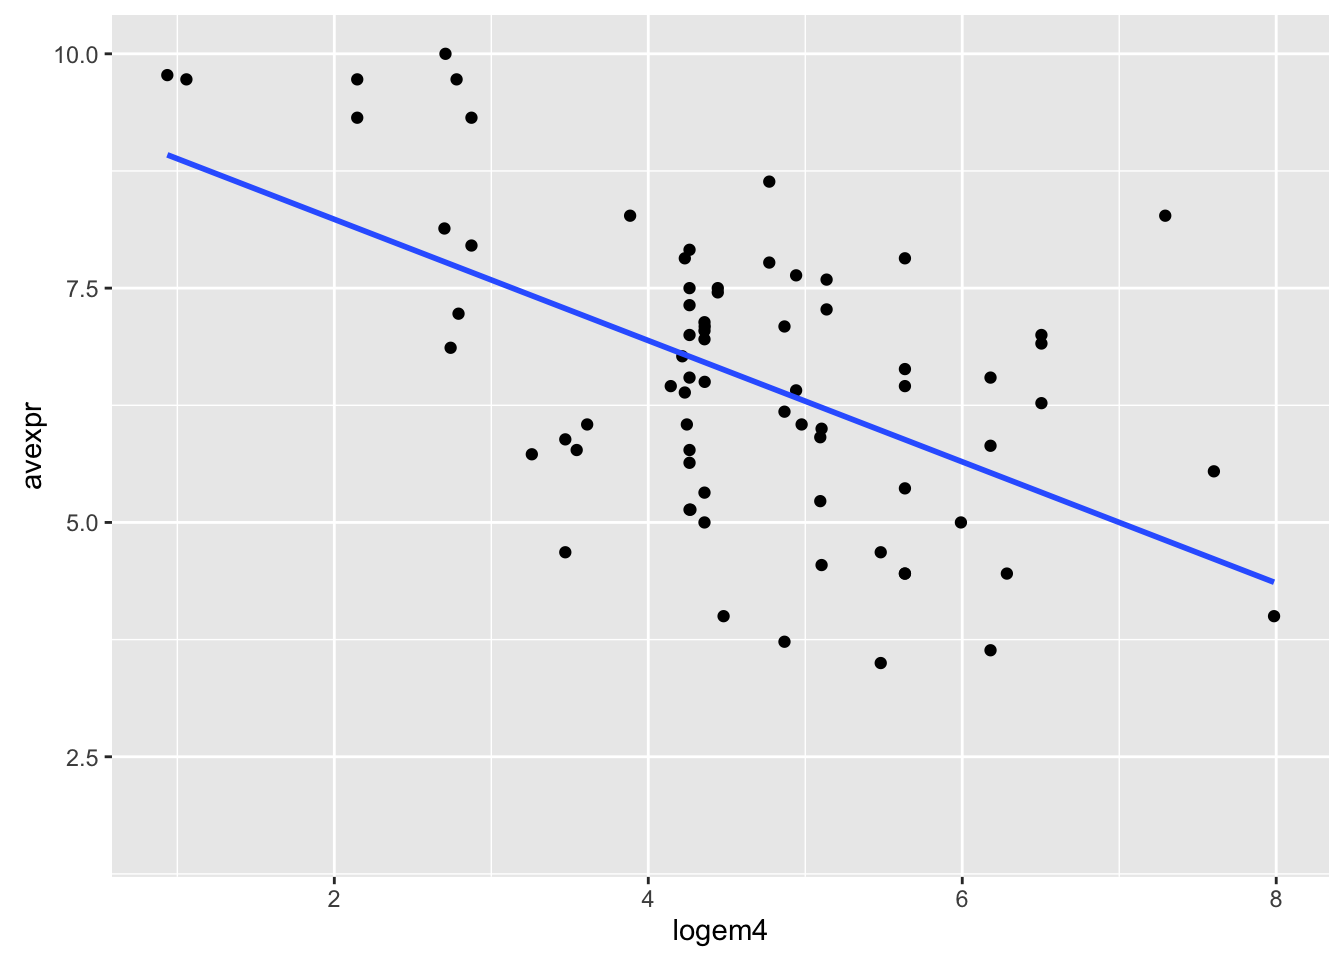
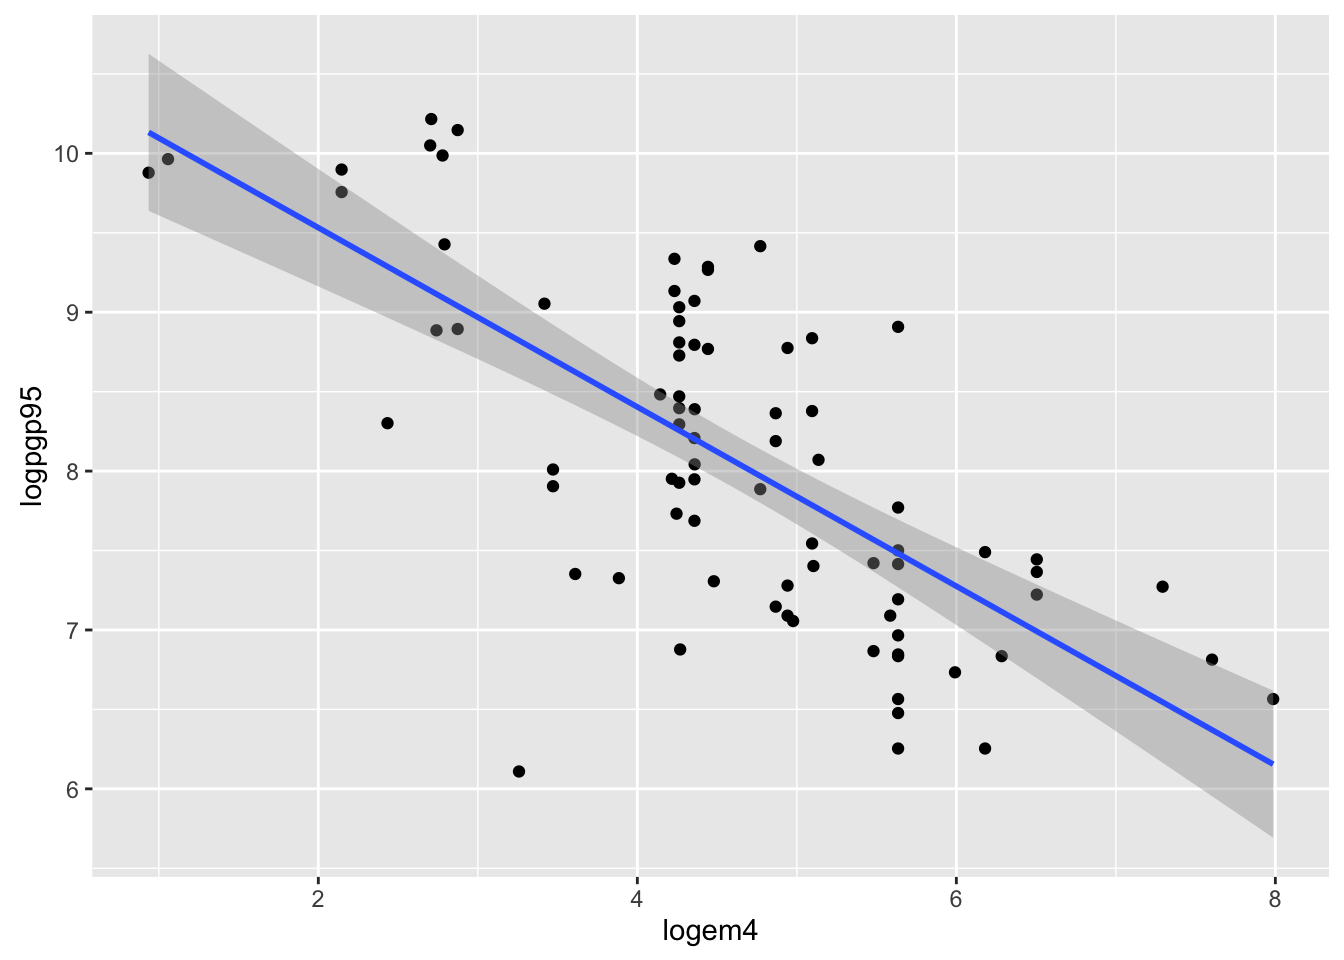
updating web

diff --git a/lessons/difference-in-means-pdfversion.html b/lessons/difference-in-means-pdfversion.html
@@ -11,7 +11,7 @@
 <meta name="author" content="Andreu Casas" />
 
 
-<title>Difference in Means. T-Distribution and Hypothesis Testing</title>
+<title>Difference in Means: T-Test and Hypothesis Testing</title>
 
 <script src="libs/jquery-1.11.0/jquery.min.js"></script>
 <meta name="viewport" content="width=device-width, initial-scale=1" />
@@ -70,29 +70,41 @@ $$
 \DeclareMathOperator{\mean}{mean}
 \DeclareMathOperator{\var}{var}
 \DeclareMathOperator{\E}{E}
+\DeclareMathOperator{\MSE}{MSE}
+\DeclareMathOperator{\Bias}{Bias}
+\DeclareMathOperator{\SE}{se}
+\DeclareMathOperator{\SD}{sd}
 \DeclareMathOperator{\argmin}{argmin}
 \DeclareMathOperator{\argmax}{argmax}
 $$
 
 <div id="header">
-<h1 class="title">Difference in Means. T-Distribution and Hypothesis Testing</h1>
+<h1 class="title">Difference in Means: T-Test and Hypothesis Testing</h1>
 <h4 class="author"><em>Andreu Casas</em></h4>
 <h4 class="date"><em>January , 2016</em></h4>
 </div>
 
-<div id="TOC">
-<ul>
-<li><a href="#challenge">Challenge</a></li>
-<li><a href="#challenge-1">Challenge</a></li>
-</ul>
-</div>
 
+<p>In this lab we will use data from Acemoglu et al.’s (2001) <a href="http://economics.mit.edu/files/4123">paper</a> “The Colonial Origins of Comparative Development: An Empirical Investigation” in <em>AER</em>.</p>
+<p>Go to Acemoglu’s <a href="http://economics.mit.edu/faculty/acemoglu/data/ajr2001">website</a>, and download the data to replicate <code>Table 1</code>.</p>
+<hr />
+<div id="challenge" class="section level3">
+<h3>Challenge:</h3>
+<p>Skim the paper and briefly describe:</p>
+<ul>
+<li>What’s the puzzle/question?</li>
+<li>What’s their argument?</li>
+<li>What are their key variables?</li>
+</ul>
+<hr />
 <p>Read the data in:</p>
 <pre class="r"><code>library(rio)
 data &lt;- import(&quot;data/ajr_2001.dta&quot;)</code></pre>
-<div id="challenge" class="section level2">
-<h2>Challenge</h2>
-<p>Explore and get familiar with the data:</p>
+<hr />
+</div>
+<div id="challenge-1" class="section level3">
+<h3>Challenge:</h3>
+<p>Explore the data:</p>
 <ul>
 <li>How many obersvations (rows) and variables (columns) does the dataset have?</li>
 <li>What does each observation represent?</li>
@@ -100,71 +112,161 @@ data &lt;- import(&quot;data/ajr_2001.dta&quot;)</code></pre>
 <li>Is there a country that shows up more than once?</li>
 <li>Are there any missing values for any variable?</li>
 </ul>
-<pre class="r"><code>library(dplyr)
-names(data)
-length(unique(data$shortnam))
-head(data, n = 1)
-nrow(na.omit(data))
-length(unique(data$shortnam))
-head(data$shortnam)</code></pre>
-<p>When importing STATA (<code>.dta</code>) dataset using the rio package, we have access to the variable description. We wrote a function in the <code>uwpols501</code> package to check at the variable description of STATA datasets loaded into R using <code>rio</code>.</p>
-<pre class="r"><code># library(devtools)
-# install_github(username = &quot;jrnold&quot;, repo = &quot;UW-POLS501/r-uwpols501&quot;)
-library(uwpols501)
+<hr />
+<p>When importing STATA (<code>.dta</code>) dataset using the rio package, we have access to the variables description. We wrote a function in the <code>uwpols501</code> package to check the variables description of STATA datasets loaded into R using <code>rio</code>.</p>
+<pre class="r"><code>library(devtools)
+install_github(username = &quot;jrnold&quot;, repo = &quot;UW-POLS501/r-uwpols501&quot;)</code></pre>
+<pre class="r"><code>library(uwpols501)
 extract_var_info(data)</code></pre>
+<pre><code>##  [1] &quot;3 letter country name&quot;                        
+##  [2] &quot;European settlers 1900, AJR&quot;                  
+##  [3] &quot;=1 if was colony FLOPS definiti&quot;              
+##  [4] &quot;average protection against expropriation risk&quot;
+##  [5] &quot;log PPP GDP pc in 1995, World Bank&quot;           
+##  [6] &quot;cons on exec in 1st year indep&quot;               
+##  [7] &quot;democracy in 1900&quot;                            
+##  [8] &quot;constraint on executive in 1900&quot;              
+##  [9] &quot;corrected mortality&quot;                          
+## [10] &quot;log settler mortality&quot;                        
+## [11] &quot; log GDP per work, Hall&amp;Jones&quot;                
+## [12] &quot;base sample Colonial Origins paper&quot;</code></pre>
 <p>The variable <code>extmort4</code> contains information about <em>potential settlers mortality</em> (See Note in Figure 1 of the paper for a description of the variable: <em>measured in terms of deaths per annum per 1,000…</em>)</p>
+<hr />
 </div>
-<div id="challenge-1" class="section level2">
-<h2>Challenge</h2>
-<p>Explore the <code>extmort4</code> and <code>logem4</code> variable:</p>
+<div id="challenge-2" class="section level3">
+<h3>Challenge:</h3>
+<p>Explore the <code>logpgp95</code> and <code>logem4</code> variable:</p>
 <ul>
-<li>How many missing values do they have?</li>
-<li>Do they have the same missing values? Why or why not?</li>
-<li>What is their mean, median, first, and third quantile?</li>
+<li>Do they have missing values? If they do, are they the same?</li>
+<li>Summarize and explore the variables</li>
+<li>Why do they take the log of <code>mortality rate</code> and <code>gdp in 1995</code>?</li>
 <li>What would be the best way to plot this variable in order to analyze its distribution?</li>
 </ul>
+<hr />
 <pre class="r"><code>summary(data$extmort4)
 summary(data$logem4)</code></pre>
-<p><code>logem4</code> is the log of <code>extmort4</code>. They calculate the log of mortality-rate because they theorize that it has a log-linear relationship with the type of institutions (<code>avexpr</code>: average expropriation risk). However, some observations have a value for the <code>logem4</code> variable but not for the <code>extmort4</code> one, which does not make much sense (looks like an error). Create a new variable (e.g. <code>log_mort</code>) with the log of <code>extmort4</code>.</p>
-<pre class="r"><code>data$log_mort &lt;- log(data$extmort4)</code></pre>
+<p><code>logem4</code> is the log of <code>extmort4</code>. They calculate the log of mortality-rate because they theorize that it has a log-linear relationship with the type of institutions (<code>avexpr</code>) and economic growth (<code>logpgp95</code>).</p>
 <pre class="r"><code>library(ggplot2)
 p &lt;- ggplot(data, aes(x= extmort4))
 p + geom_histogram(bins = 30)</code></pre>
 <pre><code>## Warning: Removed 76 rows containing non-finite values (stat_bin).</code></pre>
-<p><img src="difference-in-means-pdfversion_files/figure-html/unnamed-chunk-6-1.png" title="" alt="" width="672" /></p>
+<p><img src="difference-in-means-pdfversion_files/figure-html/unnamed-chunk-6-1.png" title="" alt="" width="672" style="display: block; margin: auto;" /></p>
 <pre class="r"><code>p + geom_density() </code></pre>
 <pre><code>## Warning: Removed 76 rows containing non-finite values (stat_density).</code></pre>
-<p><img src="difference-in-means-pdfversion_files/figure-html/unnamed-chunk-6-2.png" title="" alt="" width="672" /></p>
-<pre class="r"><code>ggplot(data, aes(x = log_mort)) + geom_density()</code></pre>
-<pre><code>## Warning: Removed 76 rows containing non-finite values (stat_density).</code></pre>
-<p><img src="difference-in-means-pdfversion_files/figure-html/unnamed-chunk-6-3.png" title="" alt="" width="672" /></p>
-<p>Use plot to explore the relationship between the variables <code>logem4</code> and <code>avexpr</code>.</p>
-<pre class="r"><code>ggplot(data, aes(x = logem4, y = avexpr)) + 
+<p><img src="difference-in-means-pdfversion_files/figure-html/unnamed-chunk-6-2.png" title="" alt="" width="672" style="display: block; margin: auto;" /></p>
+<p></p>
+<p>Use a plot to explore the relationship between the variables <code>logem4</code> and <code>logpgp95</code>.</p>
+<pre class="r"><code>ggplot(data, aes(x = logem4, y = logpgp95)) + 
   geom_point() +
-  geom_smooth(method = &quot;lm&quot;, se = F)</code></pre>
-<pre><code>## Warning: Removed 89 rows containing non-finite values (stat_smooth).</code></pre>
-<pre><code>## Warning: Removed 89 rows containing missing values (geom_point).</code></pre>
-<p><img src="difference-in-means-pdfversion_files/figure-html/unnamed-chunk-7-1.png" title="" alt="" width="672" /></p>
-<p>Another way to evaluate their theory that different <strong>institutions</strong> (<code>avexpr</code>: average expropiation risk) were set up in places where <strong>colonization</strong> was highly costly than in places that were easy to colonize (<code>logem4</code>: the log of their mortality rate measure) would be to compare the <strong>mean</strong> institution (average expropiation risk) in countries with high colonization costs and in countries with low colonization costs.</p>
-<p>Create a new dummy variable indicating those countries that have a value of <code>logem4</code> in the top quantile (==1).</p>
-<pre class="r"><code>library(dplyr)</code></pre>
+  geom_smooth(method = &quot;lm&quot;)</code></pre>
+<pre><code>## Warning: Removed 82 rows containing non-finite values (stat_smooth).</code></pre>
+<pre><code>## Warning: Removed 82 rows containing missing values (geom_point).</code></pre>
+<p><img src="difference-in-means-pdfversion_files/figure-html/unnamed-chunk-7-1.png" title="" alt="" width="672" style="display: block; margin: auto;" /></p>
+<p>Another way to evaluate AJR’s theory that the mortality rate in new settlements conditioned the type of institutions that metropolies implemented in different territories and, as a result, the future economic growth in those regions, would be to compare the <strong>mean</strong> economic development (<code>logpgp95</code>) between countries with low and high mortality rates (<code>logem4</code>)</p>
+<p>Create a new dummy variable indicating those countries that have a value of <code>logem4</code> in the top 3 quantiles (==1). Also remove from the dataset those observation that do not have a value for <code>logem4</code>.</p>
+<pre class="r"><code>library(dplyr)
+data &lt;- data %&gt;%
+  mutate(high_mort = 
+                 factor(as.numeric(logem4 &gt; quantile(data$logem4, probs = .25, na.rm = TRUE))))
+data &lt;- mutate(data, high_mort = ifelse(high_mort == 0, &quot;low&quot;, &quot;high&quot;))
+data &lt;- data %&gt;%
+  filter(! is.na(high_mort))</code></pre>
+<hr />
+</div>
+<div id="challenge-3" class="section level3">
+<h3>Challenge:</h3>
+<p>How would we calculate the mean <code>logpgp95</code> for each group (<code>high_mort</code> == “low” and “high”) and a 95% confidence interval around those means?</p>
+<hr />
+<pre class="r"><code>differences &lt;- data %&gt;%
+  group_by(high_mort) %&gt;%
+  summarize(n = length(logpgp95),
+            x = round(mean(logpgp95, na.rm = TRUE), 2),
+            s = round(sd(logpgp95, na.rm = TRUE), 2),
+            t_val = round(abs(qt(0.05/2, n)), 2),
+            se = round((s / sqrt(n)), 2),
+            lwr = round(x - (t_val * se), 2),
+            upr = round(x + (t_val * se), 2)) %&gt;%
+  as.data.frame()
+differences &lt;- differences[1:2,]</code></pre>
+\begin{table}[ht]
+\centering
+\caption{Differences 1} 
+\begin{tabular}{lrrrrrrr}
+  \hline
+high\_mort &amp; n &amp; x &amp; s &amp; t\_val &amp; se &amp; lwr &amp; upr \\ 
+  \hline
+high &amp;  65 &amp; 7.80 &amp; 0.88 &amp; 2.00 &amp; 0.11 &amp; 7.58 &amp; 8.02 \\ 
+  low &amp;  22 &amp; 8.88 &amp; 1.16 &amp; 2.07 &amp; 0.25 &amp; 8.36 &amp; 9.40 \\ 
+   \hline
+\end{tabular}
+\end{table}
+<p>A simpler way to calculate the mean <code>avexpr</code> (+ 95% CIs) for these two groups is to use the <code>t.test()</code> function in R.</p>
+<pre class="r"><code>low_test &lt;- t.test(select(filter(data, high_mort == &quot;low&quot;), logpgp95))
+high_test &lt;- t.test(select(filter(data, high_mort == &quot;high&quot;), logpgp95))
+low_estimates &lt;- data.frame(x = low_test$estimate, lwr = low_test$conf.int[1],
+                            upr = low_test$conf.int[2])
+high_estimates &lt;- data.frame(x = high_test$estimate, lwr = high_test$conf.int[1],
+                            upr = high_test$conf.int[2])
+differences2 &lt;- as.data.frame(rbind_list(high_estimates, low_estimates))
+print(xtable(differences2, caption = &quot;Differences2&quot;),caption.placement = &quot;top&quot;,
+      comment = FALSE, include.rownames = FALSE)</code></pre>
+\begin{table}[ht]
+\centering
+\caption{Differences2} 
+\begin{tabular}{rrr}
+  \hline
+x &amp; lwr &amp; upr \\ 
+  \hline
+7.80 &amp; 7.58 &amp; 8.03 \\ 
+  8.88 &amp; 8.33 &amp; 9.42 \\ 
+   \hline
+\end{tabular}
+\end{table}
+<p>There is a simpler way to do it with the <code>broom</code> package</p>
+<pre class="r"><code>library(&quot;broom&quot;)
+data %&gt;%
+  group_by(high_mort) %&gt;%
+  do(tidy(t.test(.$logpgp95))) %&gt;%
+  xtable(caption = &quot;Differences 3&quot;) %&gt;%
+  print(caption.placement = &quot;top&quot;,
+      comment = FALSE, include.rownames = FALSE)</code></pre>
+\begin{table}[ht]
+\centering
+\caption{Differences 3} 
+\begin{tabular}{lrrrrrr}
+  \hline
+high\_mort &amp; estimate &amp; statistic &amp; p.value &amp; parameter &amp; conf.low &amp; conf.high \\ 
+  \hline
+high &amp; 7.80 &amp; 69.19 &amp; 0.00 &amp; 60.00 &amp; 7.58 &amp; 8.03 \\ 
+  low &amp; 8.88 &amp; 34.10 &amp; 0.00 &amp; 19.00 &amp; 8.33 &amp; 9.42 \\ 
+   \hline
+\end{tabular}
+\end{table}
+<p></p>
+<p>We can plot these two means and CIs to see more clearly if they overlap.</p>
+<pre class="r"><code>ggplot(differences, aes(x = high_mort, y = x)) +
+  ylim(min(select(differences, lwr)), max(select(differences, upr))) +
+  geom_point(size = 1) +
+  geom_errorbar(aes(ymin = lwr, ymax = upr), width = .1) +
+  ggtitle(&quot;Mean average protection against expropriation 
+          by Mortality Rate&quot;) +
+  ylab(&quot;Av. Prot. against Expr.&quot;) +
+  xlab(&quot;AJR&#39;s Mortality Rate Index &quot;)</code></pre>
+<p><img src="difference-in-means-pdfversion_files/figure-html/unnamed-chunk-12-1.png" title="" alt="" width="672" style="display: block; margin: auto;" /></p>
+<p>We can also use the <code>t.test</code> function to test if these two means are statistically distinct.</p>
+<pre class="r"><code>tt_mort &lt;- t.test(data$logpgp95 ~ data$high_mort)
+tt_mort</code></pre>
 <pre><code>## 
-## Attaching package: &#39;dplyr&#39;
+##  Welch Two Sample t-test
 ## 
-## The following objects are masked from &#39;package:stats&#39;:
-## 
-##     filter, lag
-## 
-## The following objects are masked from &#39;package:base&#39;:
-## 
-##     intersect, setdiff, setequal, union</code></pre>
-<pre class="r"><code>data &lt;- mutate(data, high_mort = as.numeric(logem4 &gt; quantile(data$logem4, probs = .75, na.rm = TRUE)))</code></pre>
-<p>Plot the distribution of the <code>logem4</code> variable for these two groups side-by-side.</p>
-<pre class="r"><code>ggplot(filter(data, high_mort == 1), aes(x = logem4)) +
-  geom_density(fill= &quot;green4&quot;, alpha = 0.3) +
-  geom_density(data = filter(data, high_mort == 0),
-               aes(x = logem4), fill = &quot;blue4&quot;, alpha = 0.3)</code></pre>
-<p><img src="difference-in-means-pdfversion_files/figure-html/unnamed-chunk-9-1.png" title="" alt="" width="672" /></p>
+## data:  data$logpgp95 by data$high_mort
+## t = -3.7938, df = 26.499, p-value = 0.0007798
+## alternative hypothesis: true difference in means is not equal to 0
+## 95 percent confidence interval:
+##  -1.6594863 -0.4938429
+## sample estimates:
+## mean in group high  mean in group low 
+##           7.803004           8.879669</code></pre>
 </div>
 
 <hr>

diff --git a/web/stories/schedule.md b/web/stories/schedule.md
@@ -192,6 +192,12 @@ Class and Lab
 <li><i class="fa-li fa fa-bar-chart"></i><a href="/lessons/Hypothesis_Tests.html">Hypothesis Tests of the Mean through Simulation in R</a>
 </ul>
 
+Lab
+
+<ul class="fa-ul">
+<li><i class="fa-li fa fa-bar-chart"></i><a href="lessons/difference-in-means-pdfversion.html">Difference in means in R</a>
+</ul>
+
 ## Week 6
 
 **Inference for Numerical Data (t-tests, ANOVA); `Bootstrap`.**
